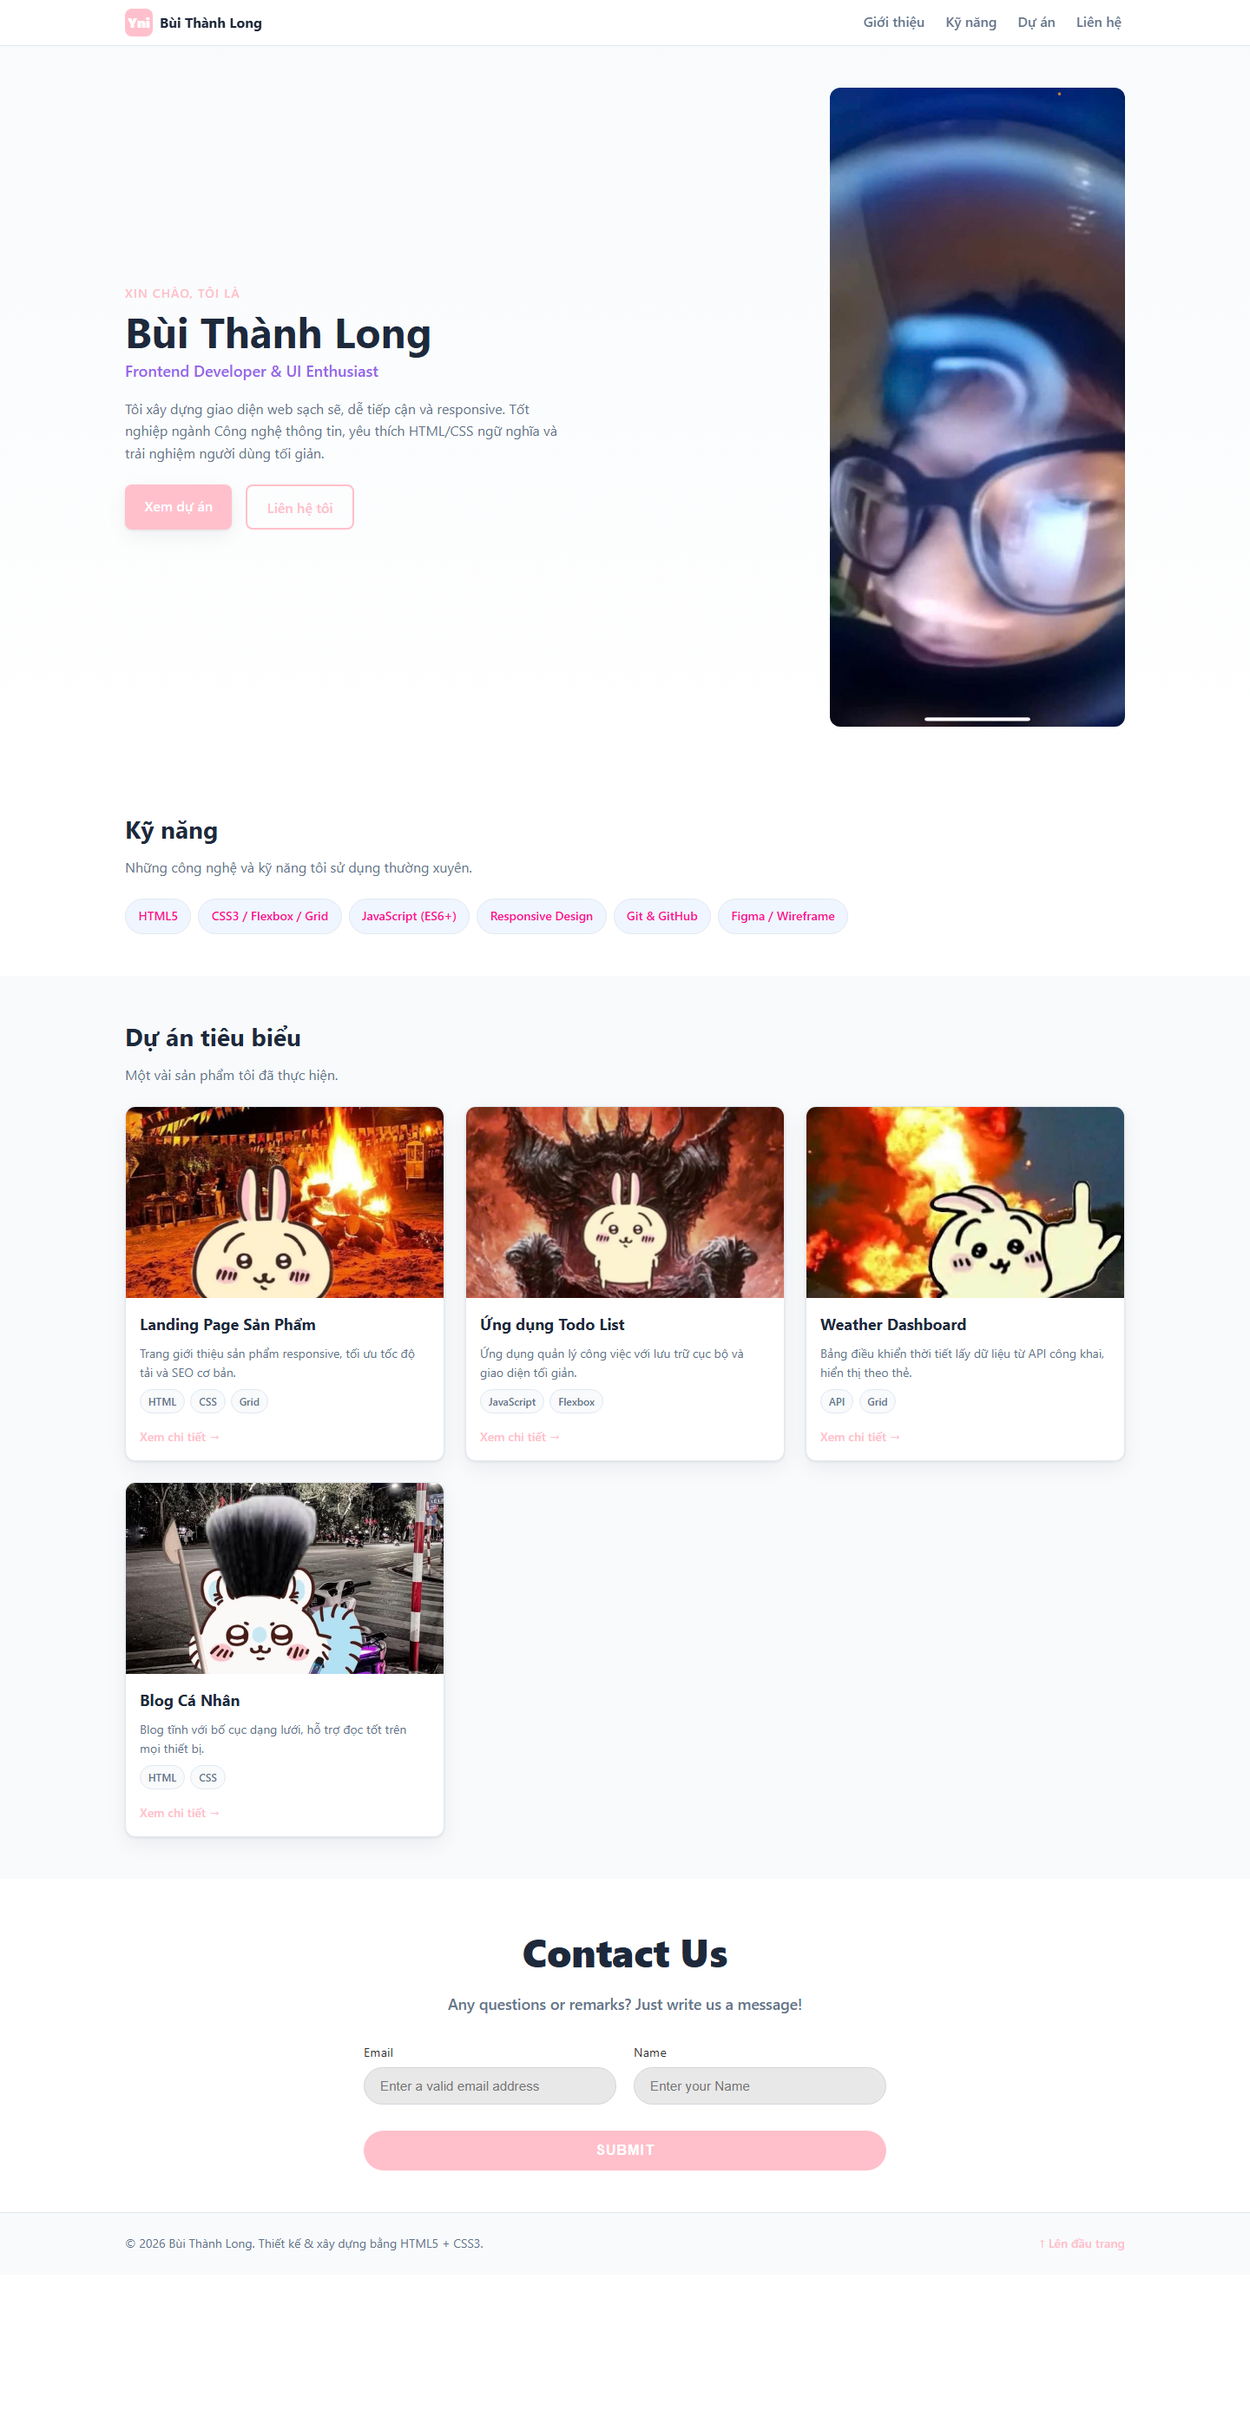
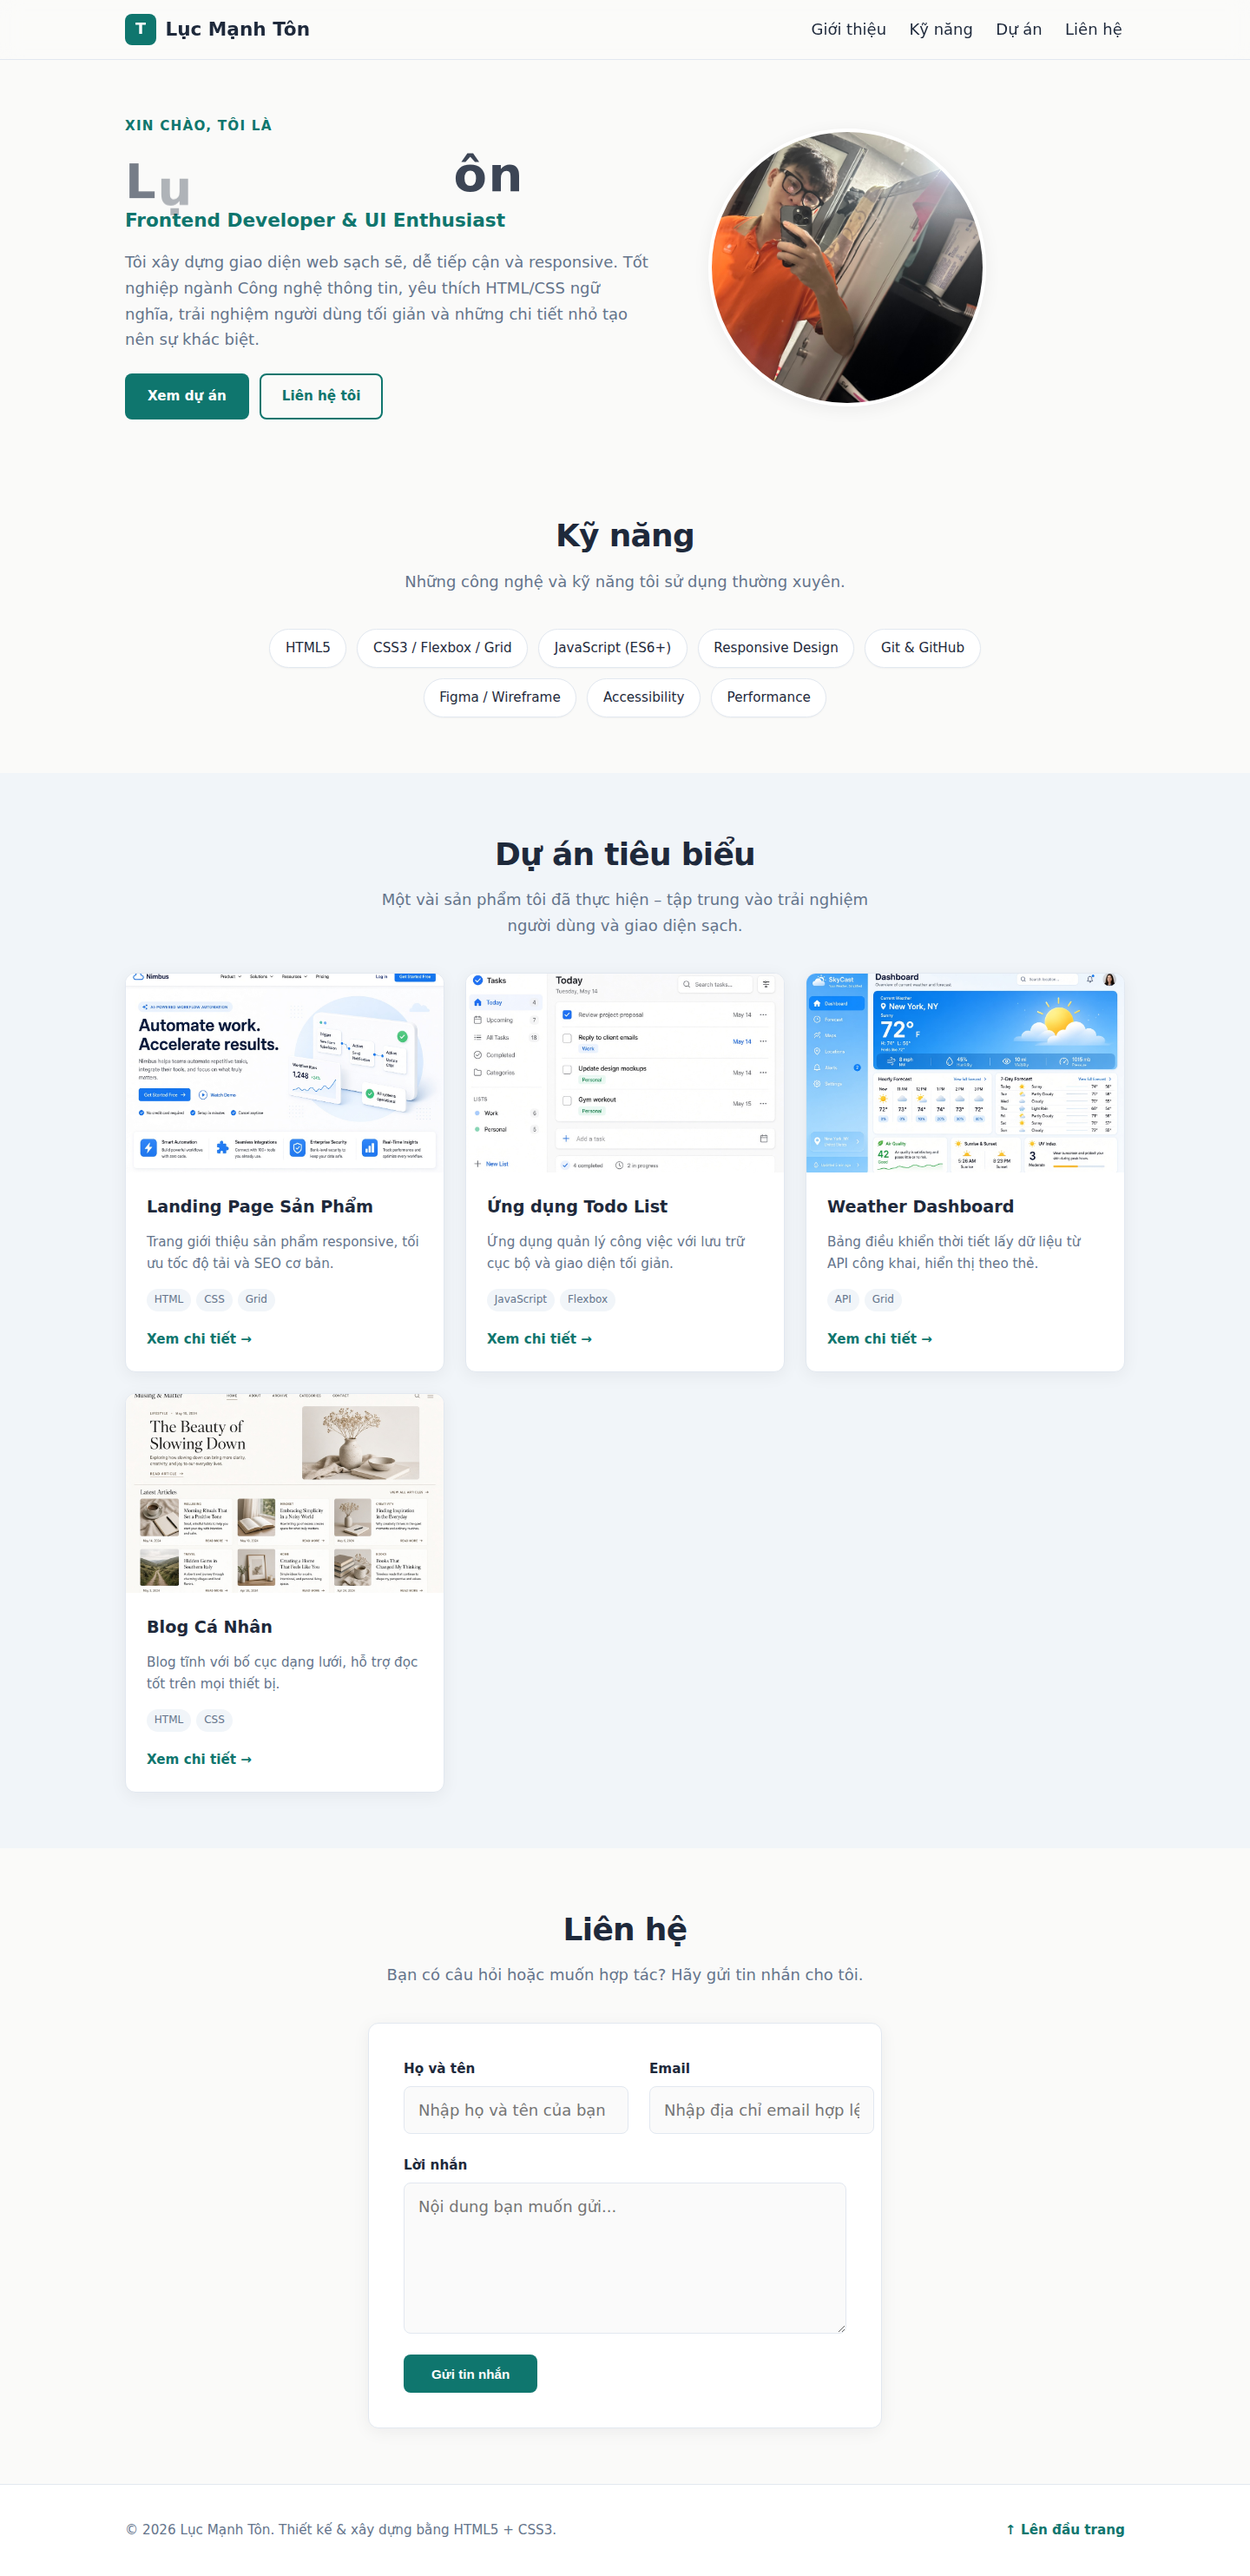
update

diff --git a/docs/test_report.md b/docs/test_report.md
@@ -1,59 +1,60 @@
 # Báo cáo kiểm thử — Portfolio CV
 
-**Ngày kiểm thử:** 27/10/2026  
+**Ngày kiểm thử:** 25/11/2026  
 **Đối tượng:** Website portfolio tĩnh trong `index.html`  
-**Môi trường:** Microsoft Edge (Chromium), mở trang từ tệp cục bộ; desktop 1440 px và mobile 390 × 844 px.
+**Môi trường:** Chromium 140, phục vụ trang qua `python3 -m http.server`; desktop 1440 × 900 px và mobile 390 × 844 px.
 
 ## Tổng quan kết quả
 
 | Tiêu chí | Kết quả | Tóm tắt |
 |---|---|---|
-| Tính đúng đắn | Đạt có điều kiện | Nội dung, điều hướng neo, ảnh và xác thực cơ bản của biểu mẫu hoạt động; liên kết dự án vẫn là placeholder. |
-| UI/UX | Cần cải thiện | Bố cục desktop hiển thị tốt; ảnh mobile ghi nhận nội dung hero bị cắt ở mép phải. |
-| Khả năng vận hành - xử lý lỗi | Đạt một phần | Trang tĩnh mở được; trình duyệt kiểm tra trường bắt buộc và email, nhưng không có xử lý/gửi biểu mẫu phía máy chủ. |
-| Bảo mật | Đạt trong phạm vi website tĩnh | Không thấy mã JavaScript, backend hoặc thư viện bên ngoài; chưa thực hiện kiểm thử xâm nhập hay đánh giá cấu hình máy chủ. |
-| Chất lượng mã nguồn | Đạt cơ bản | HTML có cấu trúc ngữ nghĩa, CSS tách riêng; chưa có bộ kiểm thử tự động và còn liên kết mẫu. |
-| Khả năng triển khai | Đạt cho nội dung tĩnh; Docker chưa xác minh | Trang và tài nguyên mở được từ tệp cục bộ; hướng dẫn Nginx/Docker có trong README nhưng môi trường kiểm thử không có Docker CLI. |
+| Tính đúng đắn | Đạt có điều kiện | Nội dung, điều hướng neo, tài nguyên ảnh và xác thực cơ bản của biểu mẫu hoạt động; liên kết dự án vẫn là placeholder. |
+| UI/UX | Đạt cơ bản | Bố cục desktop và mobile đã được chụp lại; không ghi nhận nội dung hero bị khuất ở hai khung hình kiểm thử. |
+| Khả năng vận hành - xử lý lỗi | Đạt một phần | Trang tĩnh tải được; trình duyệt kiểm tra trường bắt buộc và email, nhưng không có xử lý/gửi biểu mẫu phía máy chủ. |
+| Bảo mật | Đạt trong phạm vi website tĩnh | Không thấy backend, thư viện hoặc nơi lưu trữ dữ liệu biểu mẫu; chưa thực hiện kiểm thử xâm nhập hay đánh giá máy chủ. |
+| Chất lượng mã nguồn | Đạt cơ bản | HTML có cấu trúc ngữ nghĩa, CSS tách riêng; chưa có bộ kiểm thử tự động trong dự án. |
+| Khả năng triển khai | Đạt cho nội dung tĩnh | Trang và tài nguyên đã tải thành công qua local HTTP server; không chạy bước build hoặc container. |
 
 ## 1. Tính đúng đắn
 
-- Mở trang thành công; các phần Giới thiệu, Kỹ năng, Dự án và Liên hệ hiện diện.
+- Mở trang thành công qua local server; các phần Giới thiệu, Kỹ năng, Dự án và Liên hệ hiện diện.
 - Bấm điều hướng **Kỹ năng** đưa URL tới `#skills`.
 - Cả 5 ảnh (ảnh đại diện và 4 ảnh dự án) tải thành công, không có ảnh lỗi.
-- Biểu mẫu từ chối trạng thái để trống và email sai định dạng bằng kiểm tra HTML gốc của trình duyệt; các trường hợp nhập đủ và email hợp lệ vượt qua kiểm tra này.
+- Biểu mẫu từ chối trường để trống và email sai định dạng bằng kiểm tra HTML gốc của trình duyệt; các trường hợp nhập đủ và email hợp lệ vượt qua kiểm tra này.
 - **Chưa đạt đầy đủ:** bốn liên kết “Xem chi tiết” trong thẻ dự án hiện dùng `href="#"`, chưa dẫn tới dự án thực tế.
 
 **Minh chứng:** [Ảnh desktop](screenshots/01-desktop.png), [ảnh mobile](screenshots/02-mobile.png).
 
 ## 2. UI/UX
 
-- Ở desktop 1440 px, phần dự án hiển thị dạng lưới 3 cột; thứ bậc nội dung và các vùng chính nhìn thấy được trong ảnh toàn trang.
-- Ở mobile 390 × 844 px, ảnh chụp ghi nhận phần mô tả hero và ảnh đại diện bị cắt ở mép phải. Cần điều chỉnh cách co giãn các phần tử trong hero và kiểm thử lại trên thiết bị nhỏ; `overflow-x: hidden` có thể che thanh cuộn ngang mà không giải quyết phần nội dung bị khuất.
-- Nội dung giao diện trộn tiếng Việt và tiếng Anh (đặc biệt phần Liên hệ); nên thống nhất ngôn ngữ trước khi phát hành.
+- Ở desktop 1440 × 900 px, phần dự án hiển thị theo bố cục nhiều cột và các vùng chính được thể hiện trong ảnh toàn trang đã làm mới.
+- Ở mobile 390 × 844 px, ảnh chụp mới ghi nhận bố cục một cột và toàn bộ phần hero nằm trong khung hình; không thấy phần mô tả hoặc ảnh đại diện bị khuất ở mép ngang.
+- Giao diện đang ở mức nhất quán nhưng tên dự án và vai trò vẫn trộn Việt – Anh; cần thống nhất nếu yêu cầu phát hành hoàn toàn bằng tiếng Việt.
 
-**Minh chứng:** [Ảnh desktop](screenshots/01-desktop.png), [ảnh mobile thể hiện vấn đề](screenshots/02-mobile.png).
+**Minh chứng:** [Ảnh desktop](screenshots/01-desktop.png), [ảnh mobile](screenshots/02-mobile.png).
 
 ## 3. Khả năng vận hành - xử lý lỗi
 
-- Trang tĩnh mở được trực tiếp trong Edge và tải các tài nguyên tương đối.
+- Trang tĩnh mở được qua HTTP server và tải các tài nguyên tương đối.
 - Các trường `required` và `type="email"` cung cấp kiểm tra dữ liệu cơ bản ở phía trình duyệt.
-- Biểu mẫu chưa có backend/dịch vụ tiếp nhận, không gửi thông tin liên hệ và không có trạng thái thành công hoặc lỗi từ dịch vụ. Vì vậy, thao tác gửi biểu mẫu thực tế chưa được xác nhận.
+- Biểu mẫu chưa có backend/dịch vụ tiếp nhận, không gửi thông tin liên hệ và không có trạng thái thành công hoặc lỗi từ dịch vụ.
 - Không có ứng dụng máy chủ hoặc luồng xử lý lỗi ứng dụng để kiểm thử trong phiên bản tĩnh này.
 
-**Minh chứng:** Ảnh desktop có phần Liên hệ và biểu mẫu; các ảnh chụp nằm trong [thư mục screenshots](screenshots/).
+**Minh chứng:** [Ảnh desktop](screenshots/01-desktop.png) có phần Liên hệ và biểu mẫu.
 
 ## 4. Bảo mật
 
-- Trong phạm vi các tệp được kiểm tra, website là nội dung HTML/CSS tĩnh, không có mã JavaScript, backend, thư viện bên ngoài hoặc nơi lưu trữ dữ liệu biểu mẫu.
+- Trong phạm vi các tệp được kiểm tra, website là nội dung HTML/CSS tĩnh, không có backend, thư viện bên ngoài hoặc nơi lưu trữ dữ liệu biểu mẫu.
 - Kiểm tra email của trình duyệt chỉ hỗ trợ trải nghiệm nhập liệu, không thay thế xác thực phía máy chủ nếu sau này tích hợp dịch vụ nhận dữ liệu.
-- Chưa thực hiện pentest, quét lỗ hổng, kiểm thử tải hoặc rà soát cấu hình HTTP/TLS/security headers của máy chủ triển khai. Các cấu hình này phụ thuộc môi trường hosting.
+- Chưa thực hiện pentest, quét lỗ hổng, kiểm thử tải hoặc rà soát cấu hình HTTP/TLS/security headers của máy chủ triển khai.
 
 **Minh chứng:** [Ảnh desktop](screenshots/01-desktop.png) ghi nhận trang và biểu mẫu ở trạng thái tĩnh.
 
 ## 5. Chất lượng mã nguồn
 
 - Có các vùng HTML ngữ nghĩa như `header`, `nav`, `main`, `section`, `article` và `footer`; CSS được tách thành `assets/css/styles.css`.
-- Các trường biểu mẫu có nhãn; ảnh nội dung có văn bản thay thế. CSS có breakpoint responsive, kiểu `focus-visible` và hỗ trợ `prefers-reduced-motion`.
+- Các trường biểu mẫu có nhãn; ảnh nội dung có văn bản thay thế.
+- CSS có breakpoint responsive, kiểu `focus-visible` và hỗ trợ `prefers-reduced-motion`.
 - Chưa có kiểm thử tự động, quy trình lint/validate HTML hoặc CI trong dự án.
 - Các `href="#"` của dự án là phần cần hoàn thiện để tránh điều hướng không có đích hữu ích.
 
@@ -61,12 +62,15 @@
 
 ## 6. Khả năng triển khai
 
-- Xác nhận trang có thể mở trực tiếp từ `index.html`; các ảnh và CSS cục bộ được tải cùng trang.
-- README có hướng dẫn phục vụ nội dung tĩnh bằng Nginx/Docker. Không chạy thử container trong lần kiểm thử này vì môi trường hiện tại không có Docker CLI; do đó chưa xác nhận cấu hình container hoặc triển khai production.
-- Không có bước build hay dependency cài đặt theo mô tả dự án. Cần thay liên kết mẫu, xử lý vấn đề mobile và quyết định cách tiếp nhận biểu mẫu trước khi phát hành chính thức.
+- Xác nhận trang có thể mở trực tiếp từ `index.html` hoặc qua local HTTP server; các ảnh và CSS cục bộ được tải cùng trang.
+- Không có bước build hay dependency cài đặt theo mô tả dự án.
+- Không chạy bước triển khai production hoặc kiểm thử container.
+- Cần thay liên kết mẫu và quyết định cách tiếp nhận biểu mẫu trước khi phát hành chính thức.
 
 **Minh chứng:** [Ảnh desktop toàn trang](screenshots/01-desktop.png) và [ảnh mobile](screenshots/02-mobile.png).
 
 ## Kết luận
 
-Website đáp ứng mức trình bày portfolio tĩnh cơ bản. Chưa nên coi là hoàn tất phát hành cho người dùng thực tế cho đến khi sửa lỗi hiển thị mobile, thay các liên kết dự án mẫu và xác định rõ biểu mẫu liên hệ sẽ được tích hợp hay bỏ chức năng gửi.
+Website đáp ứng mức trình bày portfolio tĩnh cơ bản trên desktop và mobile. Các ảnh minh chứng đã được làm mới theo giao diện hiện tại.
+
+Website vẫn chưa được coi là hoàn tất phát hành cho người dùng thực tế cho đến khi thay các liên kết dự án mẫu và xác định rõ biểu mẫu liên hệ sẽ được tích hợp hay bỏ chức năng gửi.

diff --git a/README.md b/README.md
@@ -30,15 +30,20 @@ Website portfolio cá nhân giới thiệu Lục Mạnh Tôn với vai trò Fron
 ```text
 .
 ├── index.html
-└── assets
-    ├── css
-    │   └── styles.css
-    └── img
-        ├── avatar.jpg
-        ├── img1.jpg
-        ├── img2.jpg
-        ├── img3.jpg
-        └── img4.jpg
+├── assets
+│   ├── css
+│   │   └── styles.css
+│   └── img
+│       ├── avatar.jpg
+│       ├── img1.jpg
+│       ├── img2.jpg
+│       ├── img3.jpg
+│       └── img4.jpg
+└── docs
+    ├── screenshots
+    │   ├── 01-desktop.png
+    │   └── 02-mobile.png
+    └── test_report.md
 ```
 
 ## Chạy thử
@@ -50,6 +55,13 @@ python3 -m http.server 8000
 ```
 
 Sau đó truy cập http://localhost:8000
+
+## Tài liệu kiểm thử
+
+- [Báo cáo kiểm thử](docs/test_report.md)
+- [Ảnh desktop](docs/screenshots/01-desktop.png)
+- [Ảnh mobile](docs/screenshots/02-mobile.png)
+- [Nhật ký thay đổi](CHANGELOG.md)
 
 ## Liên hệ
 

diff --git a/CHANGELOG.md b/CHANGELOG.md
@@ -1,5 +1,13 @@
 # CHANGELOG
 
+## v2.1 — 25/11/2026 (Cập nhật tài liệu)
+
+### Cải tiến
+
+- Cập nhật báo cáo kiểm thử theo trạng thái giao diện hiện tại.
+- Làm mới ảnh minh chứng desktop và mobile trong thư mục `docs/screenshots`.
+- Bổ sung mục tài liệu kiểm thử, cấu trúc dự án và nhật ký thay đổi vào README.
+
 ## v2.0 — 22/11/2026 (Bản nâng cấp đặc sắc)
 
 ### Cải tiến
